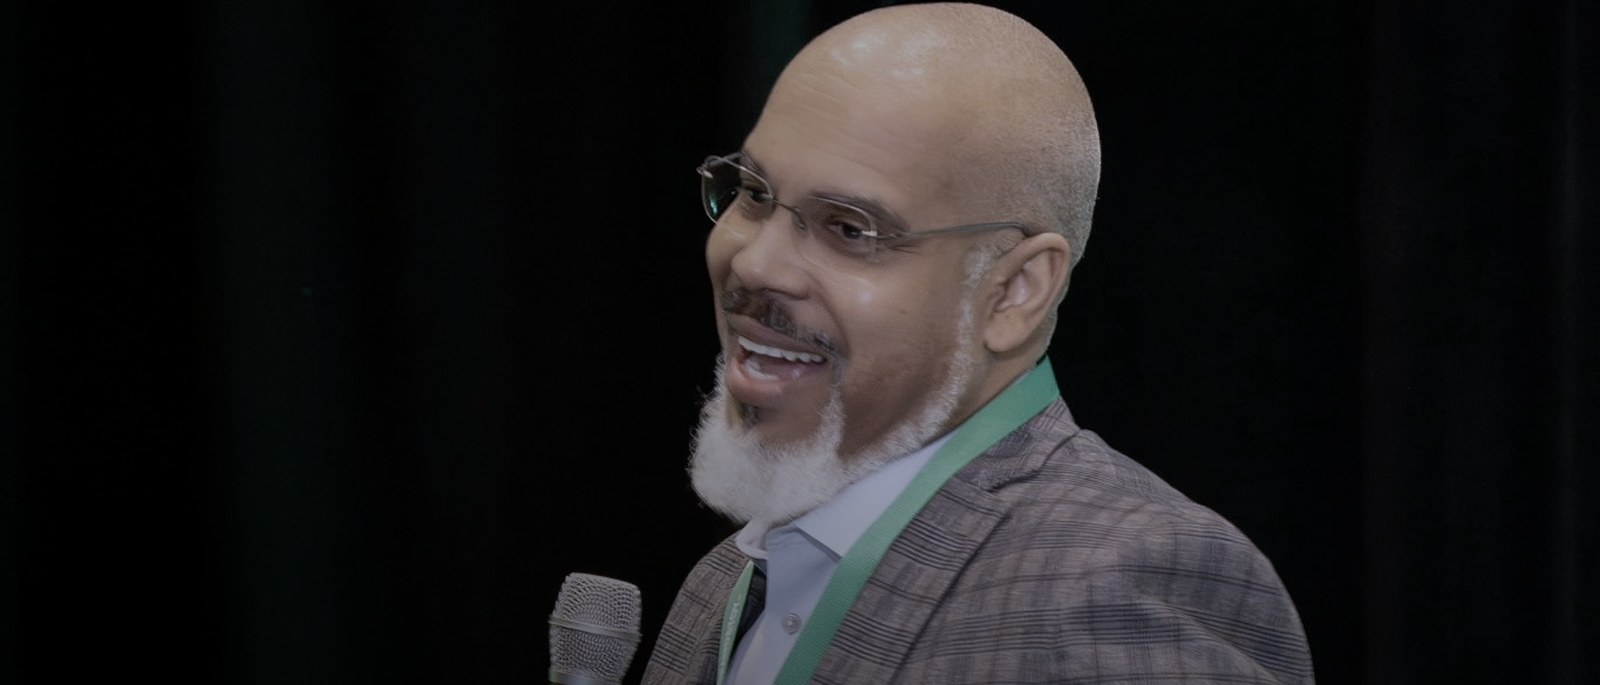
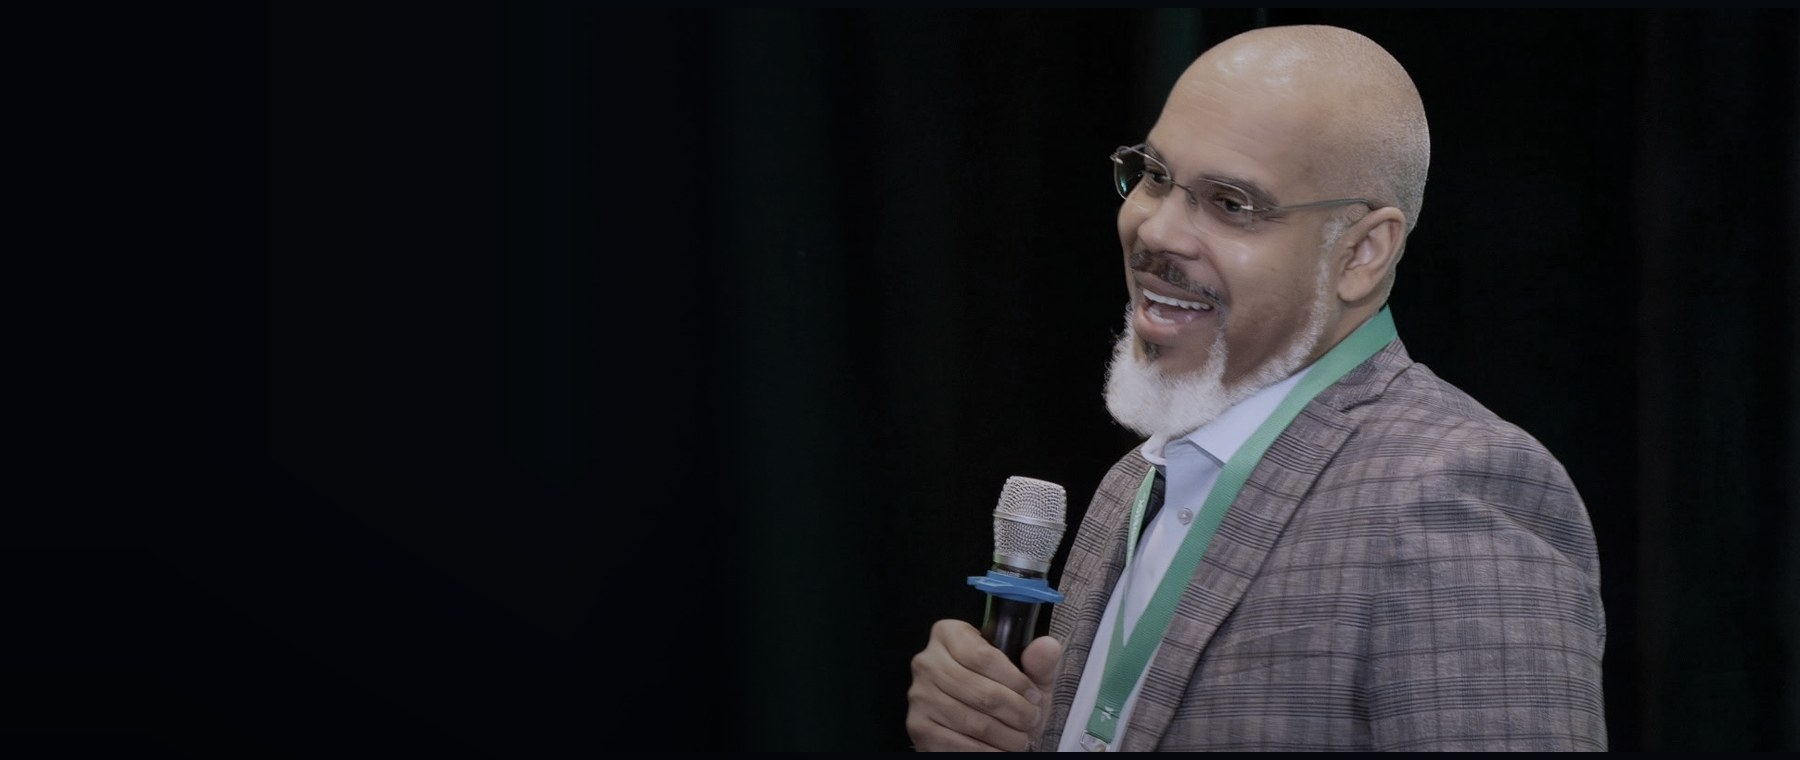
Update story copy and speaking band photo

diff --git a/components/Story.tsx b/components/Story.tsx
@@ -12,8 +12,7 @@ export default function Story() {
           <p>
             I did not take the usual path, and that is the point. I started by knocking on doors, literally,
             selling to whoever would open one. <strong>Nobody hands you anything in that job, so I learned to
-            earn it.</strong> I built a career from there one result at a time, no degree and no shortcut,
-            just an obsession with figuring out what actually works and then teaching it to everyone around me.
+            earn it.</strong> I built a career from there one result at a time, with an obsession for figuring out what actually works and then teaching it to everyone around me.
           </p>
           <p>
             That path carried me from the sales floor to the executive seat, and it taught me the thing most